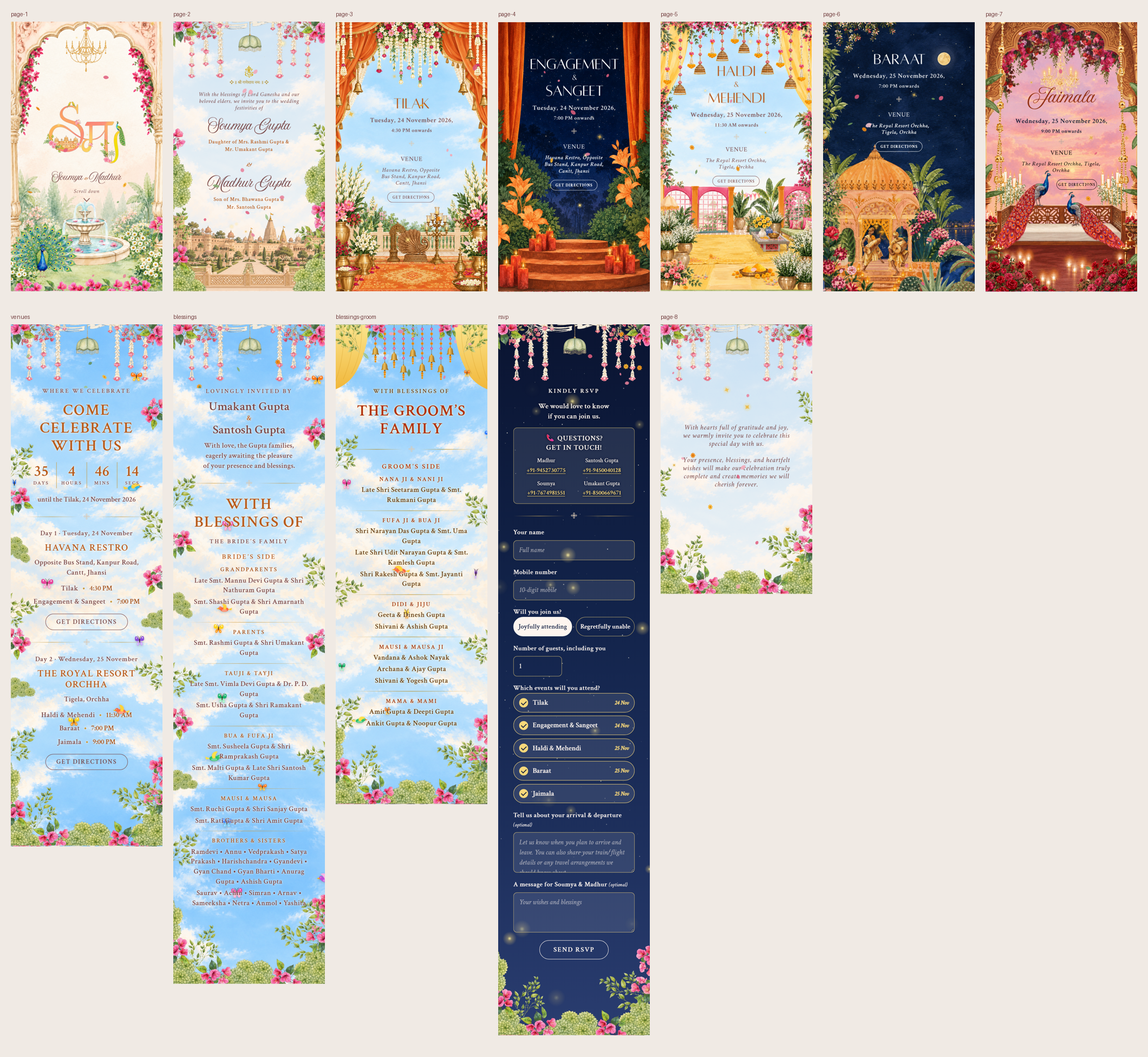
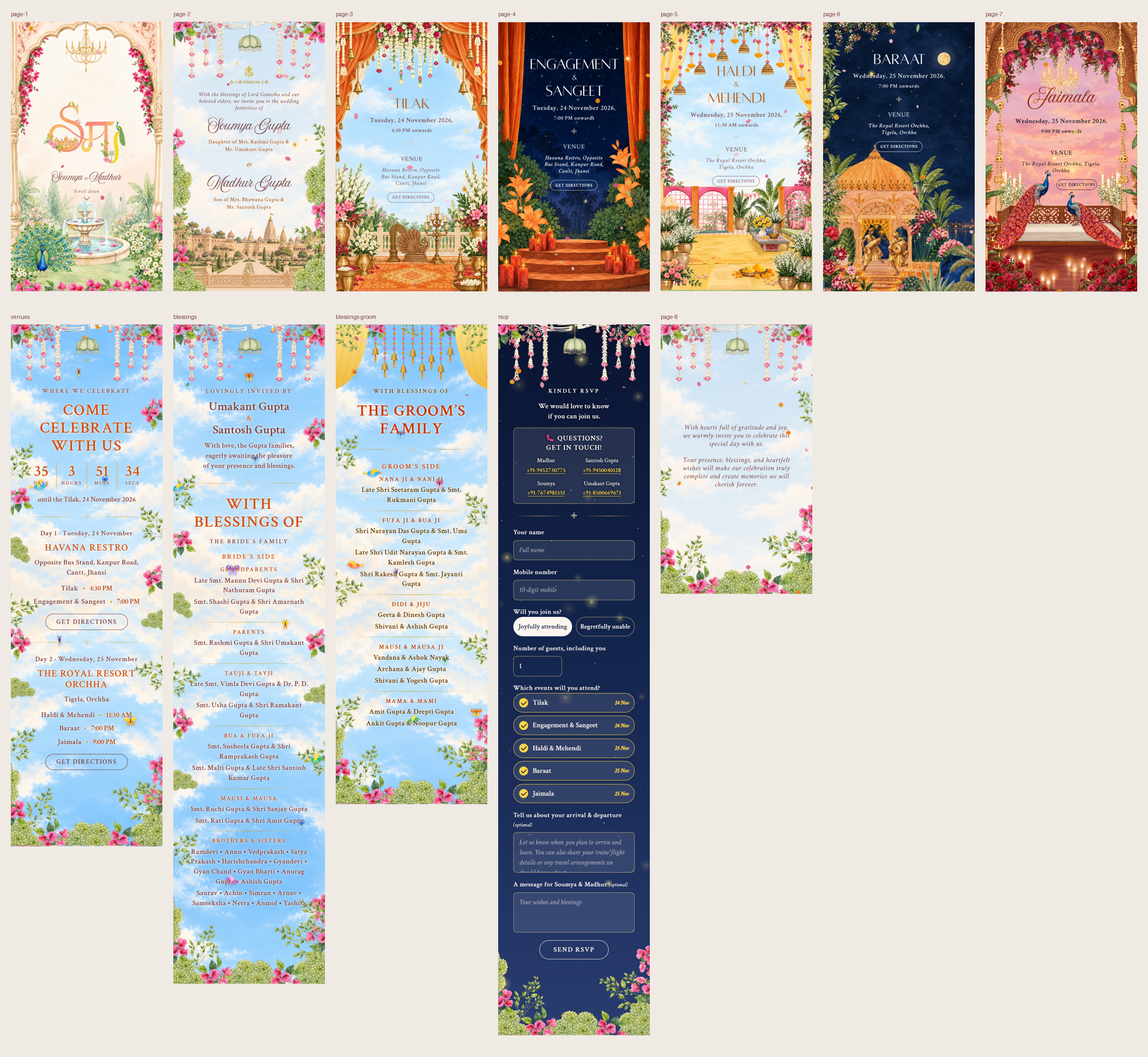
Slightly richer colours on the website sections (titles, gold lines, night yellow)

diff --git a/Website/index.html b/Website/index.html
@@ -186,16 +186,16 @@ html.locked { overflow: hidden; }
 .web dt { color: var(--accent2); font-size: 3.8cqw; font-weight: 600; letter-spacing: .18em; text-transform: uppercase; }
 .web dd { margin: 0; font-size: 4.7cqw; line-height: 1.4; font-weight: 600; letter-spacing: .02em; }
 /* one palette per section, taken from the cards: day sky (Tilak), starry night (Engagement), sunset (Jaimala), marigold (Haldi) */
-.theme-day { --ink: #784646; --accent: #b85c1d; --accent2: #a14d14; --gold: #c99a3e; --paper: #fdf5ef; --line: rgba(120,70,70,.6); --line2: rgba(120,70,70,.4);
+.theme-day { --ink: #7a3a3a; --accent: #d4500e; --accent2: #b8420c; --gold: #e0a01c; --paper: #fdf5ef; --line: rgba(120,70,70,.6); --line2: rgba(120,70,70,.4);
   --hover: rgba(120,70,70,.12); --field: rgba(255,255,255,.55); --field2: rgba(255,255,255,.4); --field-ink: #4f2c2c; --ph: rgba(120,70,70,.6);
   --shadow: 0 0 1.4cqw rgba(253,245,239,.95), 0 0 .5cqw rgba(253,245,239,.9); }
-.theme-night { --ink: #fdf5ef; --accent: #f7d77a; --accent2: #f7d77a; --gold: #d9b25a; --paper: #0f1d40; --line: rgba(247,215,122,.7); --line2: rgba(247,215,122,.4);
+.theme-night { --ink: #fdf5ef; --accent: #ffd447; --accent2: #ffd447; --gold: #f2c04a; --paper: #0f1d40; --line: rgba(247,215,122,.7); --line2: rgba(247,215,122,.4);
   --hover: rgba(247,215,122,.16); --field: rgba(255,255,255,.1); --field2: rgba(255,255,255,.1); --field-ink: #fdf5ef; --ph: rgba(253,245,239,.55);
   --shadow: 0 0 1.4cqw rgba(6,15,38,.9), 0 0 .5cqw rgba(6,15,38,.8); }
 .theme-dusk { --ink: #fff3ea; --accent: #ffd98a; --accent2: #ffd98a; --gold: #f0b95a; --paper: #32145e; --line: rgba(255,217,138,.75); --line2: rgba(255,217,138,.45);
   --hover: rgba(255,217,138,.18); --field: rgba(255,255,255,.12); --field2: rgba(255,255,255,.1); --field-ink: #fff3ea; --ph: rgba(255,243,234,.6);
   --shadow: 0 0 1.4cqw rgba(50,10,70,.9), 0 0 .5cqw rgba(50,10,70,.85); }
-.theme-haldi { --ink: #5e3410; --accent: #b0300c; --accent2: #9a2a0a; --gold: #b8860b; --paper: #fff6d6; --line: rgba(94,52,16,.55); --line2: rgba(94,52,16,.35);
+.theme-haldi { --ink: #5a2e0a; --accent: #cc2f08; --accent2: #aa2808; --gold: #d19a08; --paper: #fff6d6; --line: rgba(94,52,16,.55); --line2: rgba(94,52,16,.35);
   --hover: rgba(94,52,16,.12); --field: rgba(255,251,230,.65); --field2: rgba(255,251,230,.5); --field-ink: #3b200a; --ph: rgba(94,52,16,.55);
   --shadow: 0 0 1.4cqw rgba(255,246,205,.95), 0 0 .5cqw rgba(255,246,205,.9); }
 .theme-night .sky { background: linear-gradient(180deg, #0a1431 0%, #12234a 40%, #1d2f5c 72%, #2a3d70 100%); }

diff --git a/Source/pipeline/build.py b/Source/pipeline/build.py
@@ -833,16 +833,16 @@ html.locked {{ overflow: hidden; }}
 .web dt {{ color: var(--accent2); font-size: 3.8cqw; font-weight: 600; letter-spacing: .18em; text-transform: uppercase; }}
 .web dd {{ margin: 0; font-size: 4.7cqw; line-height: 1.4; font-weight: 600; letter-spacing: .02em; }}
 /* one palette per section, taken from the cards: day sky (Tilak), starry night (Engagement), sunset (Jaimala), marigold (Haldi) */
-.theme-day {{ --ink: #784646; --accent: #b85c1d; --accent2: #a14d14; --gold: #c99a3e; --paper: #fdf5ef; --line: rgba(120,70,70,.6); --line2: rgba(120,70,70,.4);
+.theme-day {{ --ink: #7a3a3a; --accent: #d4500e; --accent2: #b8420c; --gold: #e0a01c; --paper: #fdf5ef; --line: rgba(120,70,70,.6); --line2: rgba(120,70,70,.4);
   --hover: rgba(120,70,70,.12); --field: rgba(255,255,255,.55); --field2: rgba(255,255,255,.4); --field-ink: #4f2c2c; --ph: rgba(120,70,70,.6);
   --shadow: 0 0 1.4cqw rgba(253,245,239,.95), 0 0 .5cqw rgba(253,245,239,.9); }}
-.theme-night {{ --ink: #fdf5ef; --accent: #f7d77a; --accent2: #f7d77a; --gold: #d9b25a; --paper: #0f1d40; --line: rgba(247,215,122,.7); --line2: rgba(247,215,122,.4);
+.theme-night {{ --ink: #fdf5ef; --accent: #ffd447; --accent2: #ffd447; --gold: #f2c04a; --paper: #0f1d40; --line: rgba(247,215,122,.7); --line2: rgba(247,215,122,.4);
   --hover: rgba(247,215,122,.16); --field: rgba(255,255,255,.1); --field2: rgba(255,255,255,.1); --field-ink: #fdf5ef; --ph: rgba(253,245,239,.55);
   --shadow: 0 0 1.4cqw rgba(6,15,38,.9), 0 0 .5cqw rgba(6,15,38,.8); }}
 .theme-dusk {{ --ink: #fff3ea; --accent: #ffd98a; --accent2: #ffd98a; --gold: #f0b95a; --paper: #32145e; --line: rgba(255,217,138,.75); --line2: rgba(255,217,138,.45);
   --hover: rgba(255,217,138,.18); --field: rgba(255,255,255,.12); --field2: rgba(255,255,255,.1); --field-ink: #fff3ea; --ph: rgba(255,243,234,.6);
   --shadow: 0 0 1.4cqw rgba(50,10,70,.9), 0 0 .5cqw rgba(50,10,70,.85); }}
-.theme-haldi {{ --ink: #5e3410; --accent: #b0300c; --accent2: #9a2a0a; --gold: #b8860b; --paper: #fff6d6; --line: rgba(94,52,16,.55); --line2: rgba(94,52,16,.35);
+.theme-haldi {{ --ink: #5a2e0a; --accent: #cc2f08; --accent2: #aa2808; --gold: #d19a08; --paper: #fff6d6; --line: rgba(94,52,16,.55); --line2: rgba(94,52,16,.35);
   --hover: rgba(94,52,16,.12); --field: rgba(255,251,230,.65); --field2: rgba(255,251,230,.5); --field-ink: #3b200a; --ph: rgba(94,52,16,.55);
   --shadow: 0 0 1.4cqw rgba(255,246,205,.95), 0 0 .5cqw rgba(255,246,205,.9); }}
 .theme-night .sky {{ background: linear-gradient(180deg, #0a1431 0%, #12234a 40%, #1d2f5c 72%, #2a3d70 100%); }}
